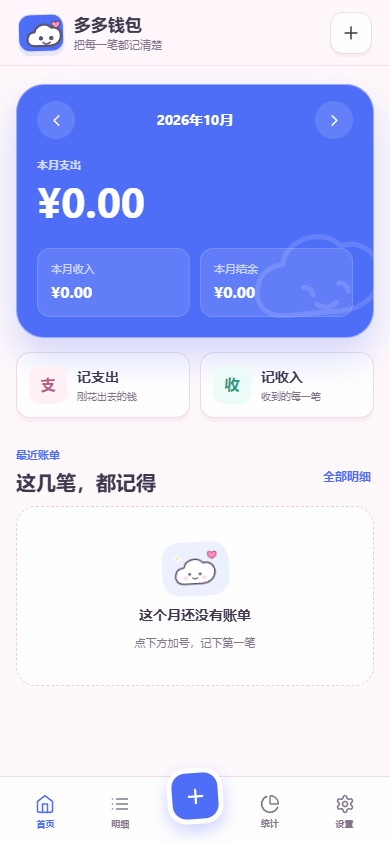
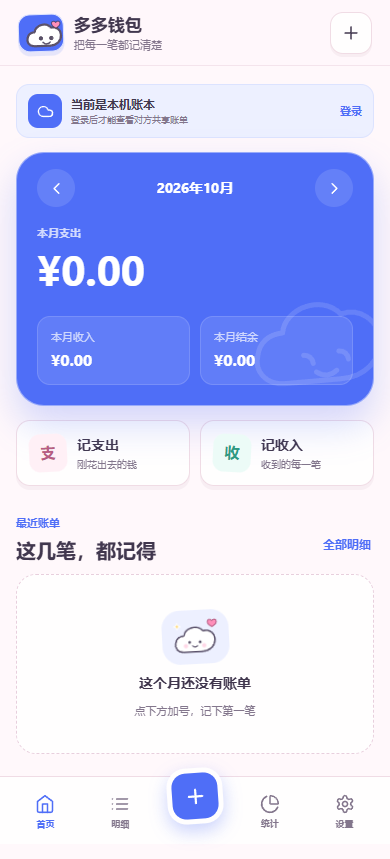
fix: add cookie auth fallback for mobile

diff --git a/cloud.js b/cloud.js
@@ -3,6 +3,7 @@
 
   const CONFIG_KEY = "duoduo-cloud-config-v1";
   const SESSION_KEY = "duoduo-cloud-session-v1";
+  const SESSION_COOKIE = "duoduo_cloud_session";
   const AUTH_DB_NAME = "duoduo-cloud-auth-v1";
   const AUTH_DB_STORE = "session";
   let config = readJson(CONFIG_KEY) || window.SHARED_LEDGER_CONFIG || null;
@@ -21,6 +22,37 @@
   function saveJson(key, value) {
     if (value) localStorage.setItem(key, JSON.stringify(value));
     else localStorage.removeItem(key);
+  }
+
+  function readSessionCookie() {
+    const prefix = `${SESSION_COOKIE}=`;
+    const entry = document.cookie.split("; ").find((item) => item.startsWith(prefix));
+    if (!entry) return null;
+    try {
+      return JSON.parse(decodeURIComponent(entry.slice(prefix.length)));
+    } catch {
+      return null;
+    }
+  }
+
+  function writeSessionCookie(value) {
+    if (!value?.accessToken || !value?.refreshToken) return;
+    const compact = {
+      accessToken: value.accessToken,
+      refreshToken: value.refreshToken,
+      expiresAt: value.expiresAt,
+      updatedAt: value.updatedAt || Date.now(),
+      user: value.user ? { id: value.user.id, email: value.user.email || "" } : null
+    };
+    const encoded = encodeURIComponent(JSON.stringify(compact));
+    if (encoded.length > 3800) return;
+    const secure = location.protocol === "https:" ? "; Secure" : "";
+    document.cookie = `${SESSION_COOKIE}=${encoded}; Max-Age=31536000; Path=/; SameSite=Lax${secure}`;
+  }
+
+  function clearSessionCookie() {
+    const secure = location.protocol === "https:" ? "; Secure" : "";
+    document.cookie = `${SESSION_COOKIE}=; Max-Age=0; Path=/; SameSite=Lax${secure}`;
   }
 
   function openAuthDb() {
@@ -63,19 +95,15 @@
   async function loadStoredSession() {
     const local = readJson(SESSION_KEY);
     const backup = await readSessionBackup();
-    if (!backup) return local;
-    if (!local) {
-      saveJson(SESSION_KEY, backup);
-      return backup;
-    }
-    const localTime = Number(local.updatedAt || 0);
-    const backupTime = Number(backup.updatedAt || 0);
-    if (backupTime > localTime) {
-      saveJson(SESSION_KEY, backup);
-      return backup;
-    }
-    if (localTime > backupTime) writeSessionBackup(local).catch(() => {});
-    return local;
+    const cookie = readSessionCookie();
+    const candidates = [local, backup, cookie].filter(Boolean);
+    if (!candidates.length) return null;
+    candidates.sort((a, b) => Number(b.updatedAt || 0) - Number(a.updatedAt || 0));
+    const latest = candidates[0];
+    if (latest !== local) saveJson(SESSION_KEY, latest);
+    if (latest !== backup) writeSessionBackup(latest).catch(() => {});
+    if (latest !== cookie) writeSessionCookie(latest);
+    return latest;
   }
 
   function configured() {
@@ -108,7 +136,9 @@
       refreshToken: data.refresh_token,
       expiresAt: Date.now() + Number(data.expires_in || 3600) * 1000,
       updatedAt: Date.now(),
-      user: data.user || session?.user || null
+      user: data.user
+        ? { id: data.user.id, email: data.user.email || "" }
+        : session?.user || null
     };
   }
 
@@ -116,6 +146,7 @@
     session = next;
     saveJson(SESSION_KEY, next);
     writeSessionBackup(next).catch(() => {});
+    writeSessionCookie(next);
     return next;
   }
 
@@ -188,9 +219,12 @@
     if (session.expiresAt && session.expiresAt - Date.now() < 60000) {
       try {
         await refreshSession();
-      } catch {
-        await signOut(false).catch(() => {});
-        return null;
+      } catch (error) {
+        if (isRefreshAuthError(error)) {
+          await signOut(false).catch(() => {});
+          return null;
+        }
+        return stored;
       }
     }
     return getSession();
@@ -241,6 +275,7 @@
     session = null;
     saveJson(SESSION_KEY, null);
     await clearSessionBackup();
+    clearSessionCookie();
   }
 
   async function ensureSession() {
@@ -355,6 +390,19 @@
     error.code = data?.error_code || data?.code || "";
     error.status = response.status;
     return error;
+  }
+
+  function isRefreshAuthError(error) {
+    const status = Number(error?.status || 0);
+    const code = String(error?.code || "").toLowerCase();
+    const message = String(error?.message || "").toLowerCase();
+    return (status === 400 || status === 401)
+      && (
+        code.includes("invalid_grant")
+        || code.includes("refresh_token")
+        || code.includes("session_not_found")
+        || message.includes("invalid refresh token")
+      );
   }
 
   window.JiajiaCloud = {

diff --git a/app.js b/app.js
@@ -128,7 +128,7 @@
       "sheetTitle", "transactionForm", "typeSwitch", "amountInput", "categoryGrid",
       "accountChips", "dateInput", "noteInput", "deleteButton", "saveButton", "toast",
       "cloudPanel", "ledgerModeLabel", "syncModeLabel", "readonlyBanner",
-      "visibilitySection", "visibilitySwitch", "editSheet"
+      "visibilitySection", "visibilitySwitch", "editSheet", "modeBanner"
     ].forEach((id) => {
       elements[id] = document.getElementById(id);
     });
@@ -419,10 +419,15 @@
 
   function renderAll() {
     renderMonthLabels();
+    renderModeBanner();
     renderHome();
     renderLedger();
     renderStats();
     renderSettings();
+  }
+
+  function renderModeBanner() {
+    elements.modeBanner.hidden = state.mode !== "local" || state.view === "settings";
   }
 
   function renderMonthLabels() {
@@ -849,6 +854,7 @@
         refreshCloudTransactions(false);
       }
     }
+    renderModeBanner();
     if (location.hash !== `#${view}`) history.replaceState(null, "", `#${view}`);
     window.scrollTo({ top: 0, behavior: "auto" });
   }
@@ -1305,10 +1311,30 @@
     }
   }
 
-  function registerServiceWorker() {
+  async function registerServiceWorker() {
     if (!("serviceWorker" in navigator)) return;
-    navigator.serviceWorker.register("./sw.js").catch((error) => {
-      console.warn("Service worker registration failed", error);
+    let refreshing = false;
+    const hadController = Boolean(navigator.serviceWorker.controller);
+    navigator.serviceWorker.addEventListener("controllerchange", () => {
+      if (!hadController || refreshing) return;
+      refreshing = true;
+      window.location.reload();
     });
+    try {
+      const registration = await navigator.serviceWorker.register("./sw.js");
+      if (registration.waiting) registration.waiting.postMessage({ type: "SKIP_WAITING" });
+      registration.addEventListener("updatefound", () => {
+        const worker = registration.installing;
+        if (!worker) return;
+        worker.addEventListener("statechange", () => {
+          if (worker.state === "installed" && navigator.serviceWorker.controller) {
+            worker.postMessage({ type: "SKIP_WAITING" });
+          }
+        });
+      });
+      await registration.update();
+    } catch (error) {
+      console.warn("Service worker registration failed", error);
+    }
   }
 })();

diff --git a/styles.css b/styles.css
@@ -197,6 +197,59 @@ main {
   padding: 18px 16px calc(105px + var(--safe-bottom));
 }
 
+.mode-banner {
+  display: grid;
+  width: 100%;
+  grid-template-columns: 34px minmax(0, 1fr) auto;
+  align-items: center;
+  gap: 9px;
+  margin-bottom: 14px;
+  padding: 9px 11px;
+  border: 1px solid #dce3ff;
+  border-radius: 13px;
+  background: var(--primary-soft);
+  color: var(--text);
+  text-align: left;
+  cursor: pointer;
+}
+
+.mode-banner-icon {
+  display: grid;
+  width: 34px;
+  height: 34px;
+  place-items: center;
+  border-radius: 10px;
+  background: var(--primary);
+  color: #fff;
+}
+
+.mode-banner-icon svg {
+  width: 17px;
+  height: 17px;
+}
+
+.mode-banner > span:nth-child(2) {
+  display: grid;
+  min-width: 0;
+}
+
+.mode-banner strong {
+  font-size: 12px;
+}
+
+.mode-banner small {
+  overflow: hidden;
+  color: var(--muted);
+  font-size: 9px;
+  text-overflow: ellipsis;
+  white-space: nowrap;
+}
+
+.mode-banner b {
+  color: var(--primary);
+  font-size: 11px;
+}
+
 .view {
   animation: view-in .24s ease-out both;
 }

diff --git a/sw.js b/sw.js
@@ -1,5 +1,5 @@
 /* 改动页面文件后同步提升 CACHE 版本，联网时会优先取新版本。 */
-const CACHE = "duoduo-wallet-v17";
+const CACHE = "duoduo-wallet-v19";
 const ASSETS = [
   "./",
   "./index.html",
@@ -27,6 +27,10 @@ self.addEventListener("activate", (event) => {
       .then((keys) => Promise.all(keys.filter((key) => key !== CACHE).map((key) => caches.delete(key))))
       .then(() => self.clients.claim())
   );
+});
+
+self.addEventListener("message", (event) => {
+  if (event.data?.type === "SKIP_WAITING") self.skipWaiting();
 });
 
 self.addEventListener("fetch", (event) => {

diff --git a/index.html b/index.html
@@ -101,6 +101,12 @@
     </header>
 
     <main id="main">
+      <button class="mode-banner" id="modeBanner" type="button" data-view="settings" hidden>
+        <span class="mode-banner-icon"><svg><use href="#i-cloud"></use></svg></span>
+        <span><strong>当前是本机账本</strong><small>登录后才能查看对方共享账单</small></span>
+        <b>登录</b>
+      </button>
+
       <section class="view" id="view-home" aria-labelledby="homeTitle">
         <h1 class="sr-only" id="homeTitle">多多钱包首页</h1>
 

diff --git a/更新日志.md b/更新日志.md
@@ -5,6 +5,10 @@
 - 手机端登录会话同时保存在 localStorage 和 IndexedDB；其中一份被 Safari 清理时仍可恢复。
 - 登录恢复时比较两份会话的更新时间，自动选择最新的一次，避免旧 token 覆盖新 token。
 - 在手机触摸视口下验证：过期 token 自动续期，删除 localStorage 后仍能从 IndexedDB 恢复登录。
+- 网络暂不可用时不再主动清除 refresh token，恢复联网后可继续使用原登录会话。
+- 新版本 Service Worker 会主动接管并自动刷新一次页面，避免手机长期停留在旧登录逻辑。
+- 增加同源 Cookie 会话备份，形成 localStorage、IndexedDB、Cookie 三层恢复。
+- 首页和明细页增加“当前是本机账本，登录后才能查看共享”的全局提示入口。
 
 ## 2026-10-18 v1.3.1
 
